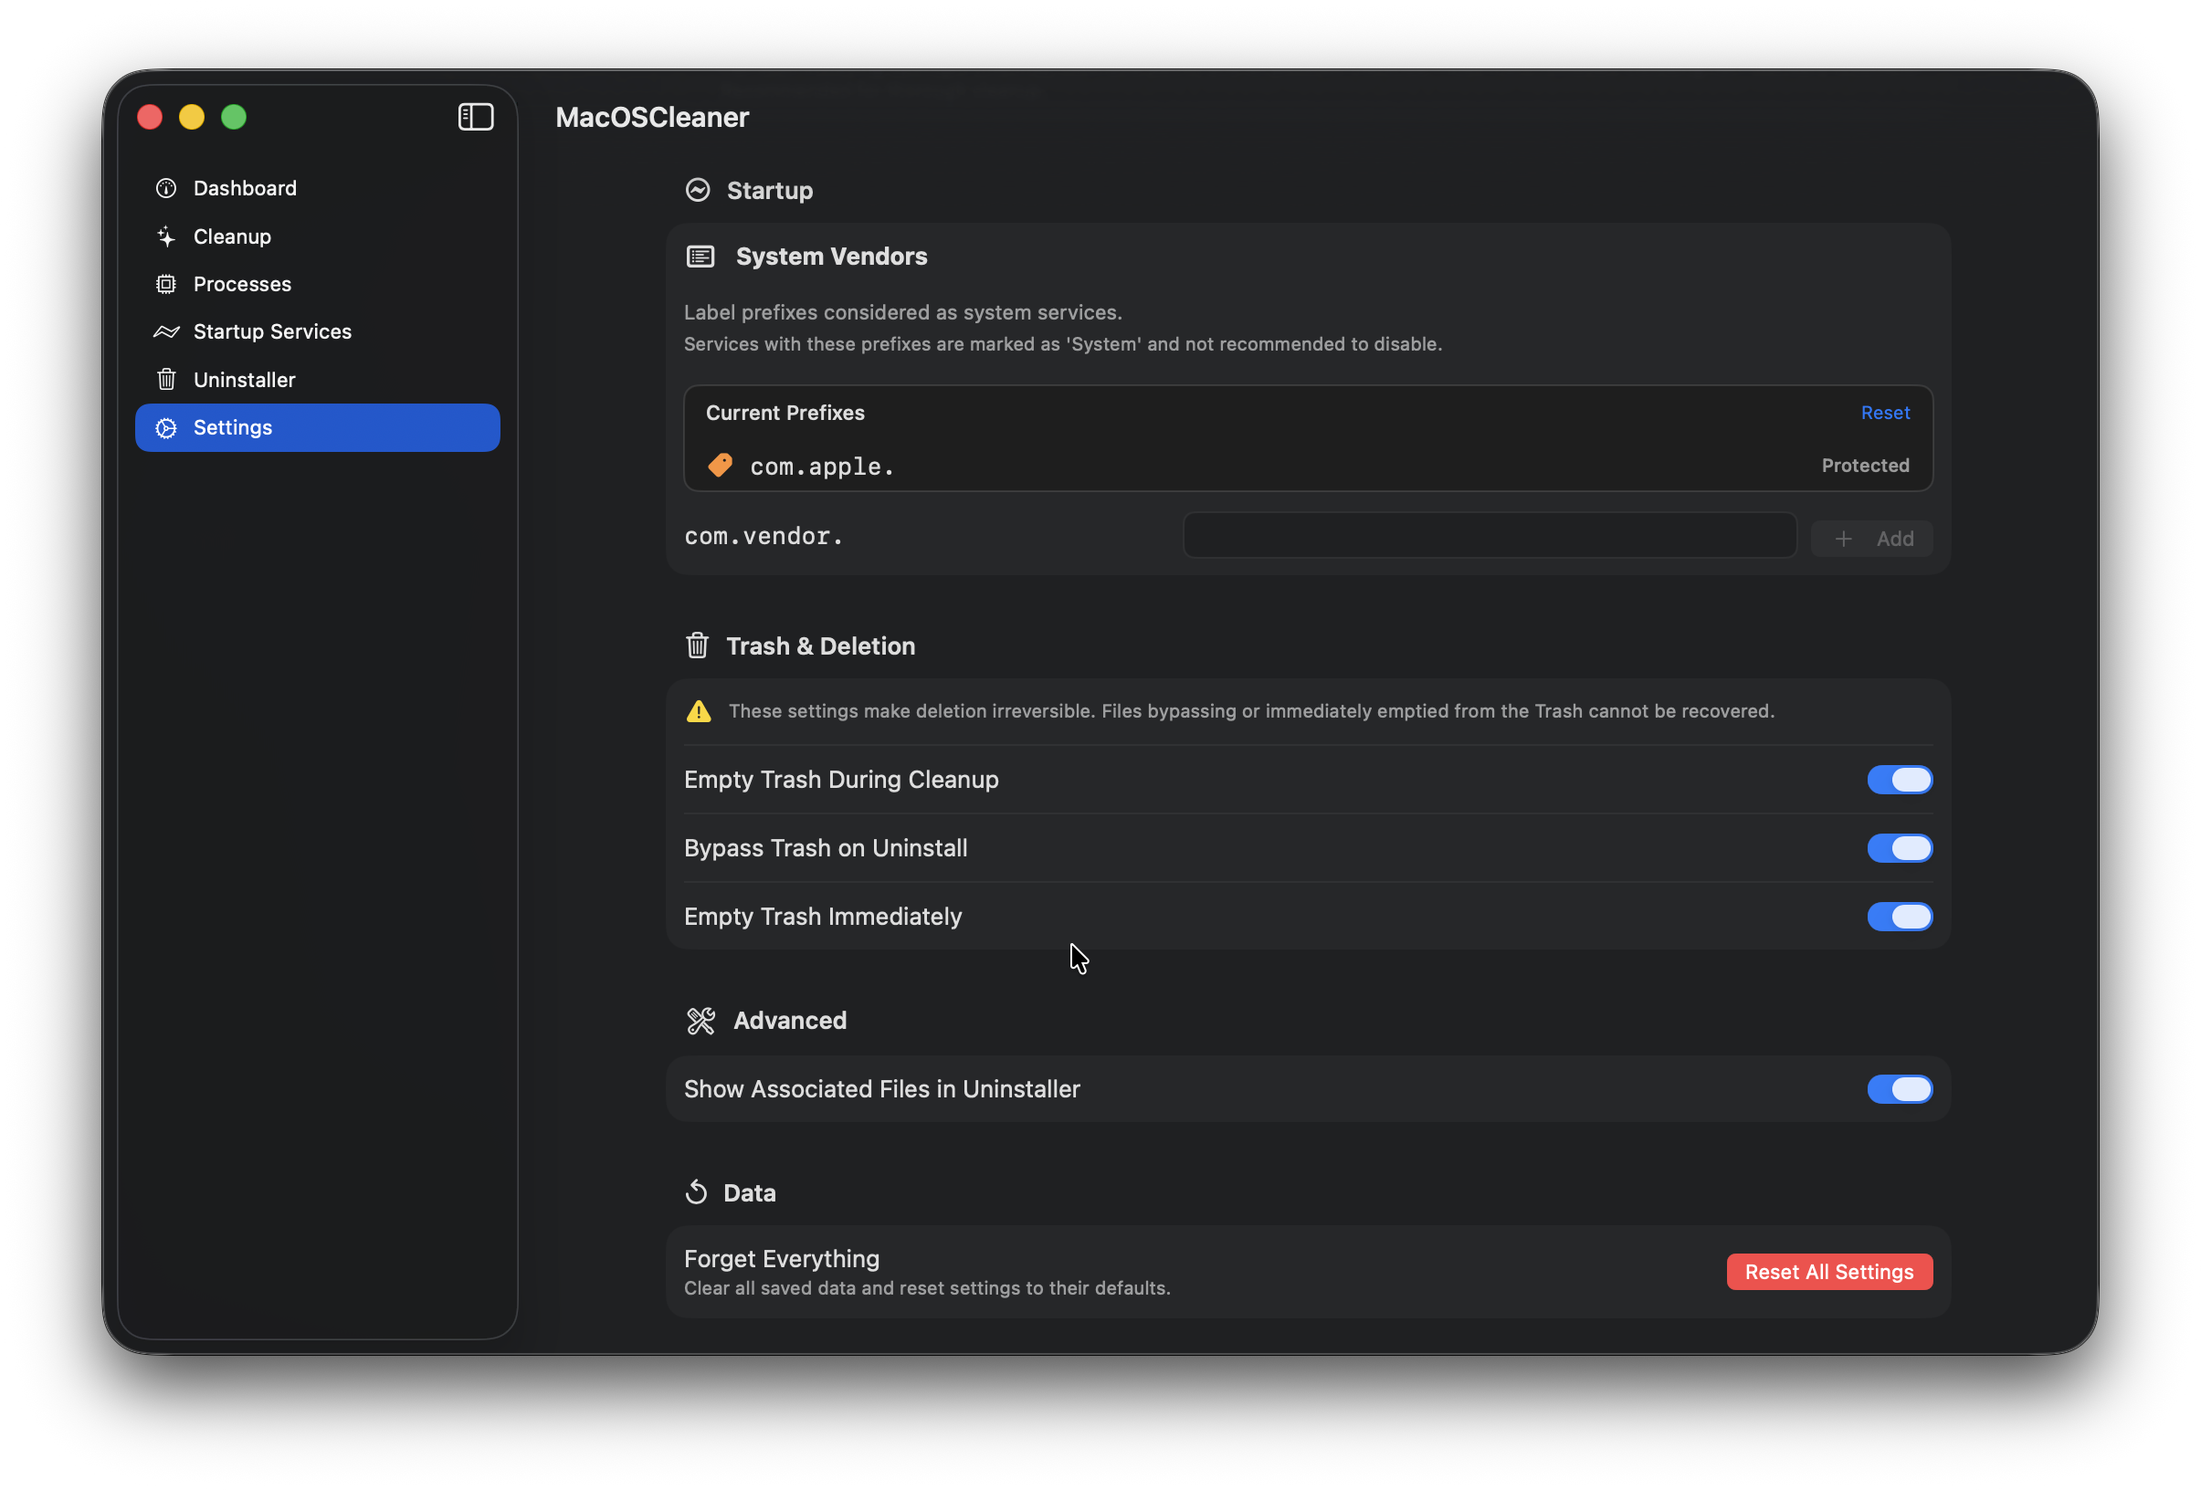
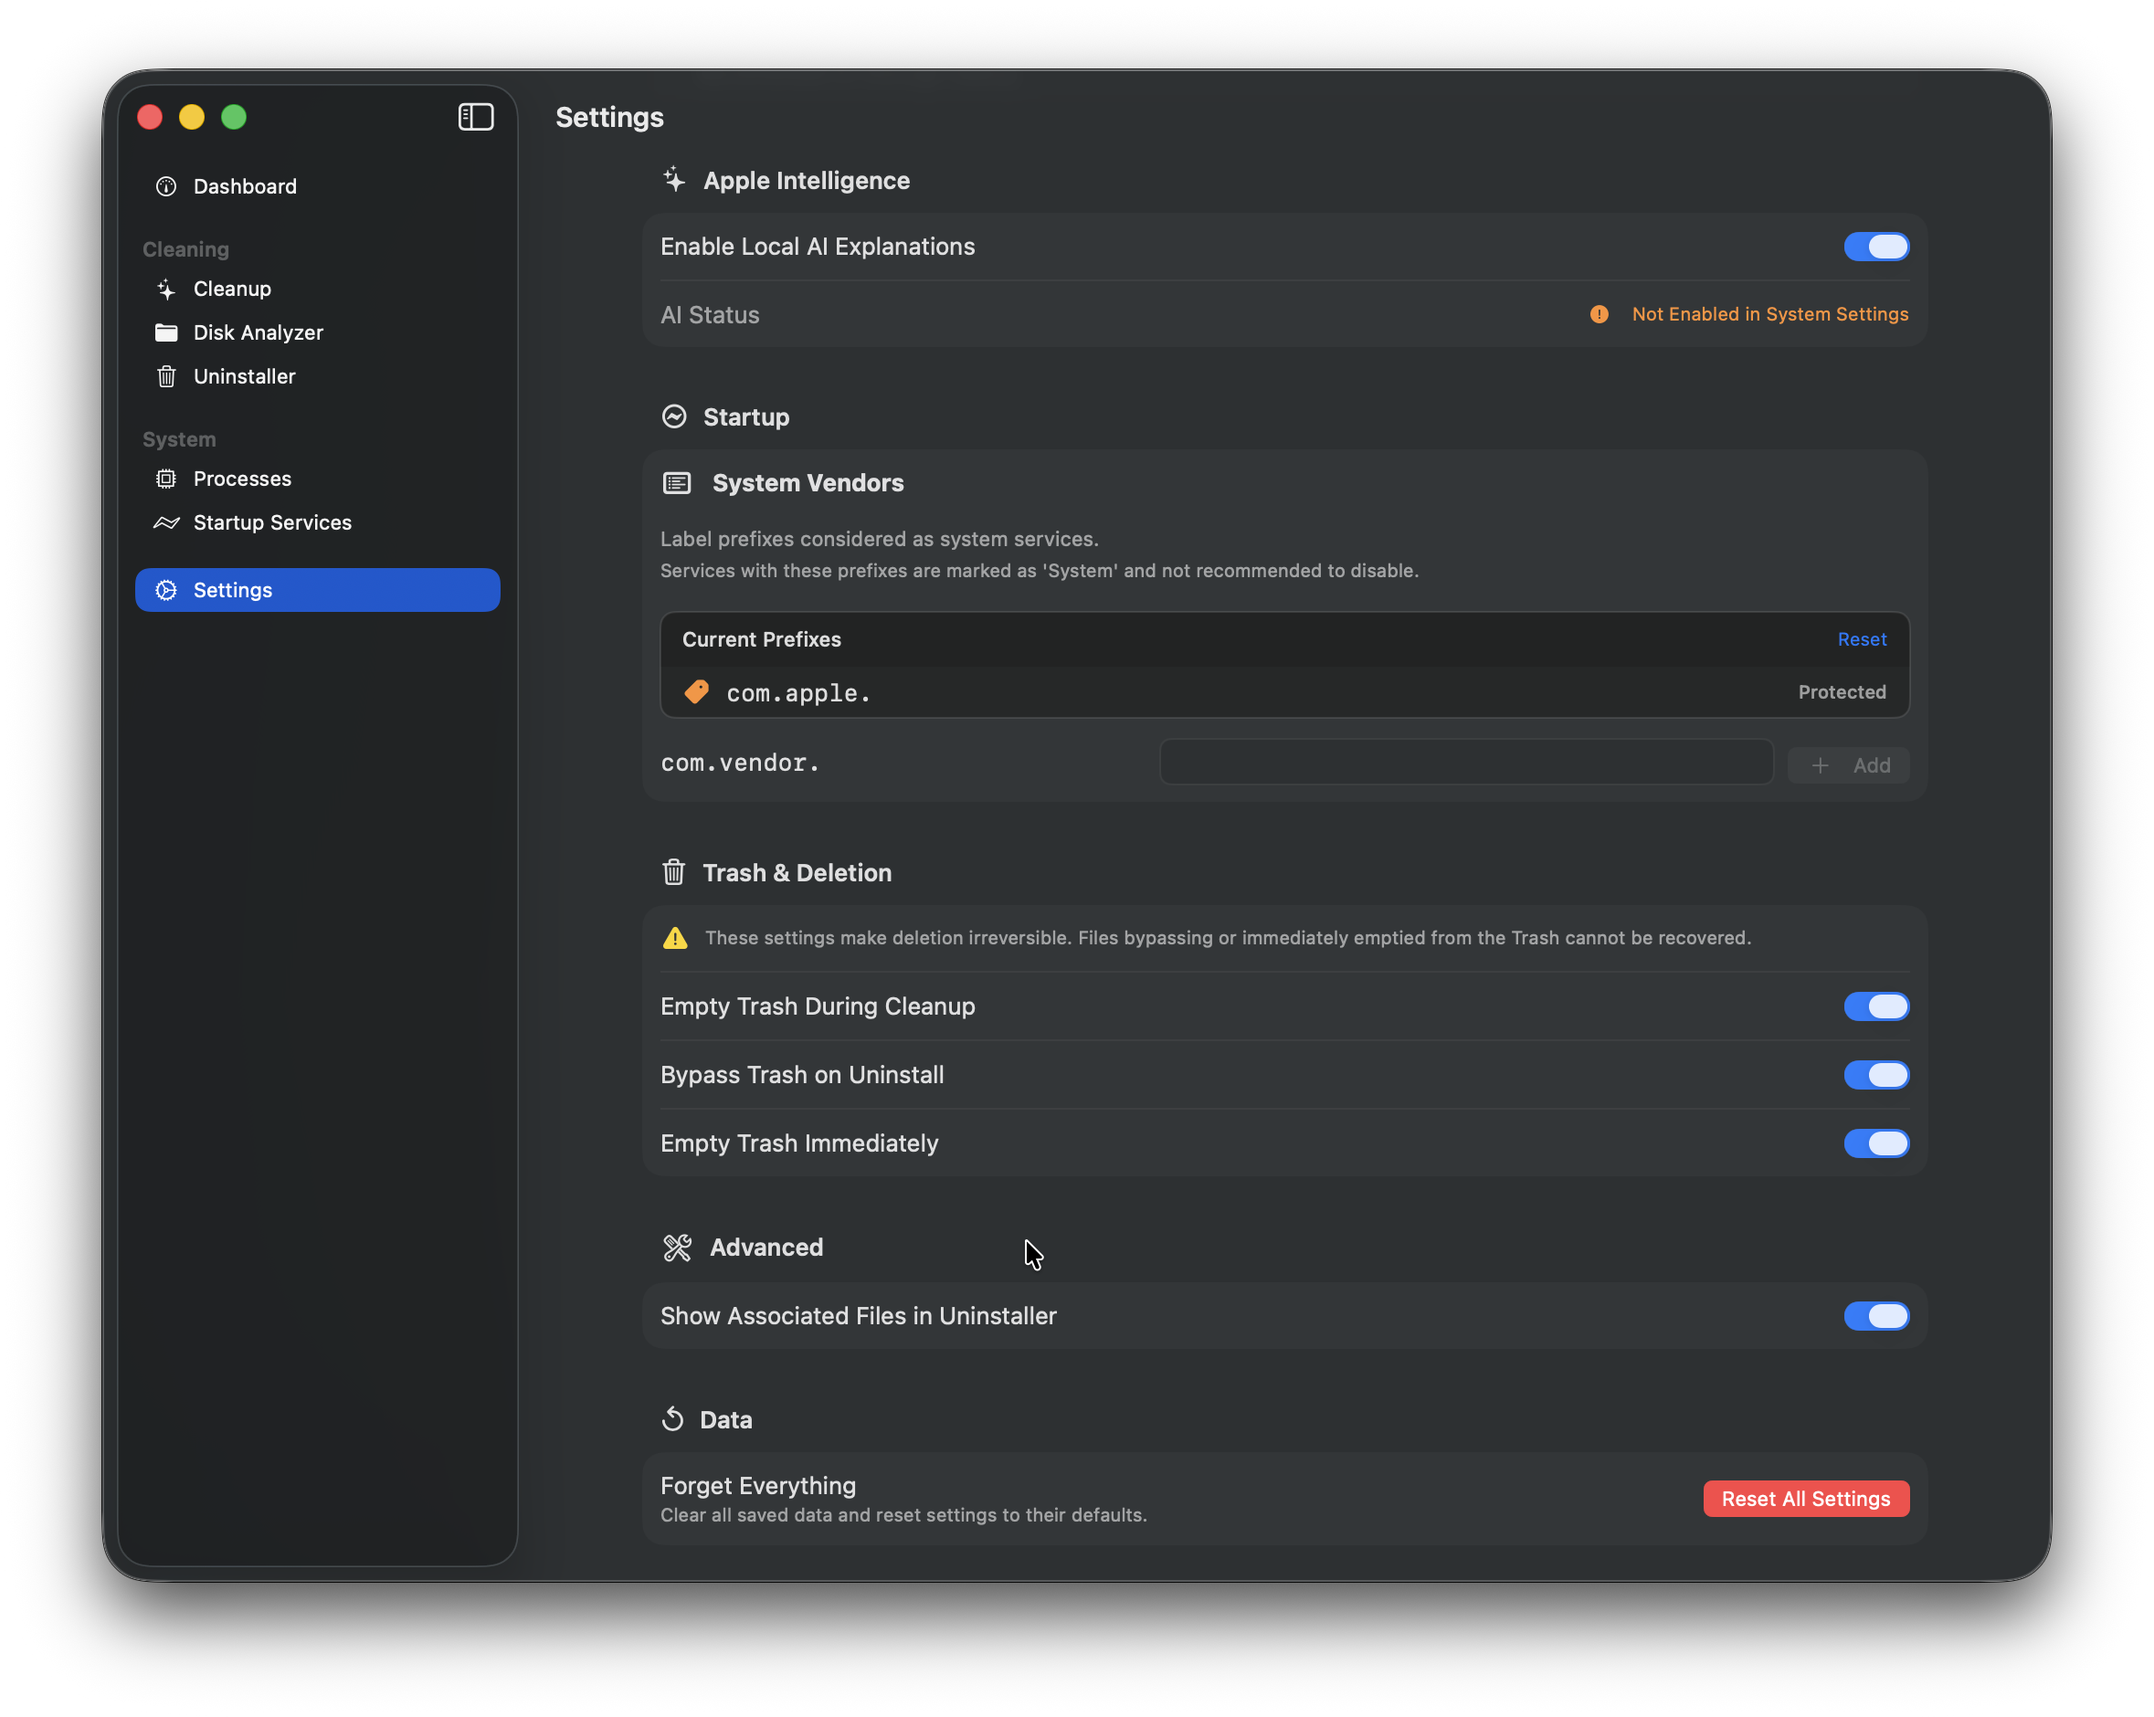
docs: update README documentation and refresh project screenshots to reflect recent UI and feature enhancements

diff --git a/README.md b/README.md
@@ -18,16 +18,16 @@
 ## Screenshots
 
 <p align="center">
-  <img src="https://github.com/AlexTkDev/MacOSCleaner/blob/relese/assets/screenshots/Dashboard.png" width="45%">
-  <img src="https://github.com/AlexTkDev/MacOSCleaner/blob/relese/assets/screenshots/Uninstaller.png" width="45%">
+  <img src="assets/screenshots/Dashboard.png" width="45%">
+  <img src="assets/screenshots/Uninstaller.png" width="45%">
 </p>
 <p align="center">
-  <img src="https://github.com/AlexTkDev/MacOSCleaner/blob/relese/assets/screenshots/Cleanup_Scan.png" width="45%">
-  <img src="https://github.com/AlexTkDev/MacOSCleaner/blob/relese/assets/screenshots/Processes.png" width="45%">
+  <img src="assets/screenshots/Cleanup_Scan.png" width="45%">
+  <img src="assets/screenshots/Processes.png" width="45%">
 </p>
 
 <p align="center">
-  <a href="https://github.com/AlexTkDev/MacOSCleaner/tree/relese/assets/screenshots">📷 View all screenshots</a>
+  <a href="assets/screenshots">📷 View all screenshots</a>
 </p>
 
 ---
@@ -77,6 +77,7 @@
 - **Internet Plug-Ins** — legacy browser plug-ins
 - **Shared File Lists** — Finder sidebar / recent items lists
 - **iCloud Cloud Documents** — iCloud document cache (opt-in)
+- **User Logs** — system and user-level logs (`~/Library/Logs`, `/Library/Logs`)
 - **Photos Library Cache** — Photos.app library cache
 - **Voice Memos** — Voice Memos recordings (opt-in)
 - **GarageBand / Logic** — project files and caches (opt-in)
@@ -93,19 +94,22 @@ Cleanup tasks run in parallel across all available cores for maximum speed. All 
 
 **Cleanup Options** — toggles before scan:
 - **Clean .DS_Store files** — removes Finder metadata from directories (off by default)
+- **Clean Maven repository** — removes Maven cached dependencies from `~/.m2/repository` (off by default)
+- **Clean Go module cache** — removes Go package caches from `GOMODCACHE` (off by default)
+- **Clean .dart_tool in projects** — scans and cleans Flutter/Dart development builds in common project locations (off by default)
 - **Clean iCloud Documents** — includes iCloud document cache (off by default)
 - **Clean Voice Memos** — includes Voice Memos recordings (off by default)
 - **Clean GarageBand / Logic** — includes project files and caches (off by default)
 - **Clean iMovie / Final Cut** — includes render files and libraries (off by default)
 - **Clean Sleep Image** — removes hibernation image file (off by default)
 
-**Disk Space** 📁 — browse large folders and files, inspect sizes, and move selected items to Trash.
+**Disk Space Analyzer** 📁 — scan any custom folder to browse its subdirectories and files sorted by size. Features categorized breakdowns (Videos, Audio, Photos, Apps, Documents, Archives) and lets you reveal items in Finder or move them to the Trash directly from the app.
 
-**Process Manager** ⚙ — redesigned with modern macOS styling. Lists running processes, lets you terminate or force-kill them. Critical system processes (kernel_task, launchd, WindowServer) are protected.
+**Process Manager** ⚙ — redesigned with modern macOS styling. Lists running processes in Flat or Grouped views. Sorts by CPU, memory, name, or threads. Supports terminating/force-killing individual processes, multiple selection, or entire groups. Critical system processes (kernel_task, launchd, WindowServer) are protected automatically. Custom user Whitelists and Blacklists let you prevent accidental termination of specific apps or quickly close blacklisted ones.
 
-**Startup Services** 🚀 — redesigned with modern macOS styling. Shows all LaunchAgents from `~/Library/LaunchAgents`, their load status, and lets you enable/disable them.
+**Startup Services** 🚀 — redesigned with modern macOS styling. Scans LaunchAgents and LaunchDaemons from both user-level (`~/Library`) and system-level (`/Library`) directories. Categorizes them automatically into My Services (User), Third-party, and System services. Allows you to load/unload or stop active services (asking for permissions via AppleScript when necessary), and configure custom vendor prefixes (System Vendors) to protect specific services from accidental modification.
 
-**App Uninstaller** 🗑 — finds installed apps, scans up to 5 levels deep for residual files using 30 types of evidence (Bundle ID, Team ID, Spotlight, Plist contents, known catalog paths, and more). Shows total reclaimable space and real-time scan progress. Tailored rules for popular apps including Docker, Parallels, Adobe CC, MS Office, Discord, Figma, JetBrains, browsers, and more.
+**App Uninstaller** 🗑 — drag and drop any `.app` bundle directly or select from the list. Finds installed apps, scans up to 5 levels deep for residual files using 30 types of evidence (Bundle ID, Team ID, Spotlight, Plist contents, known catalog paths, and more). Shows total reclaimable space and real-time scan progress. Tailored rules for popular apps including Docker, Parallels, Adobe CC, MS Office, Discord, Figma, JetBrains, browsers, and more.
 
 - **Scan Modes (Safe / Balanced)** — choose between *Safe* mode (depth 3, exact matches only, no Spotlight, highest confidence files) and *Balanced* mode (depth 5, full deep scan including Spotlight and fuzzy matching) to tailor uninstallation aggressiveness
 - **Background Deep Scanning** — apps are scanned thoroughly in the background; the UI updates in real time as each app's total size is finalized
@@ -118,7 +122,7 @@ Cleanup tasks run in parallel across all available cores for maximum speed. All 
 
 **Smart Updates** 🔄 — automatic, lightweight background check for new versions on startup directly via GitHub Releases. Get gently notified when a new update is ready, without background daemons, persistent tracking, or extra dependencies.
 
-**Settings** — rebuilt with native macOS `Form` styles to match System Settings. Light/dark/system theme, languages (English, Русский, Українська, Español), notifications, scan-on-startup, Trash behavior, Apple Intelligence toggle, and more.
+**Settings** — rebuilt with native macOS `Form` styles to match System Settings. Light/dark/system theme, languages (English, Русский, Українська, Español), notifications, scan-on-startup, Trash behavior (Empty Trash During Cleanup, Bypass Trash on Uninstall, Empty Trash Immediately), Apple Intelligence toggle, custom System Vendors, and more.
 
 ---
 
